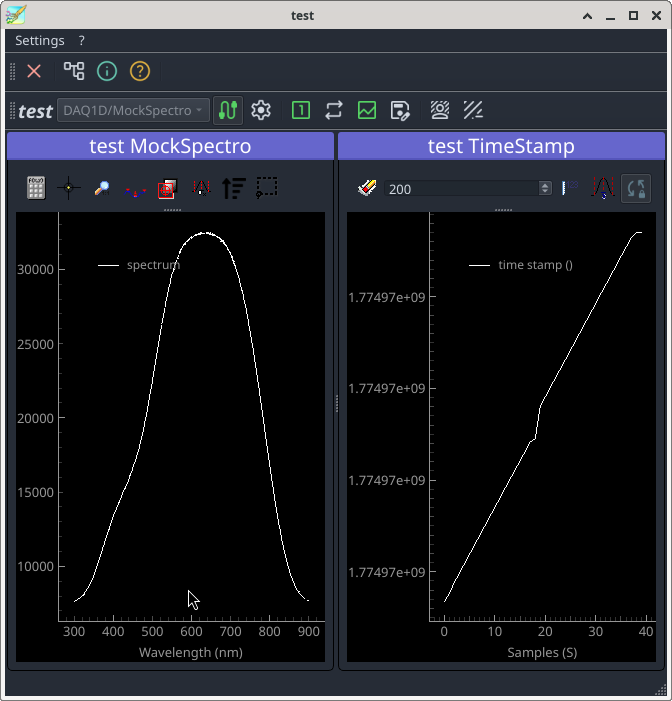
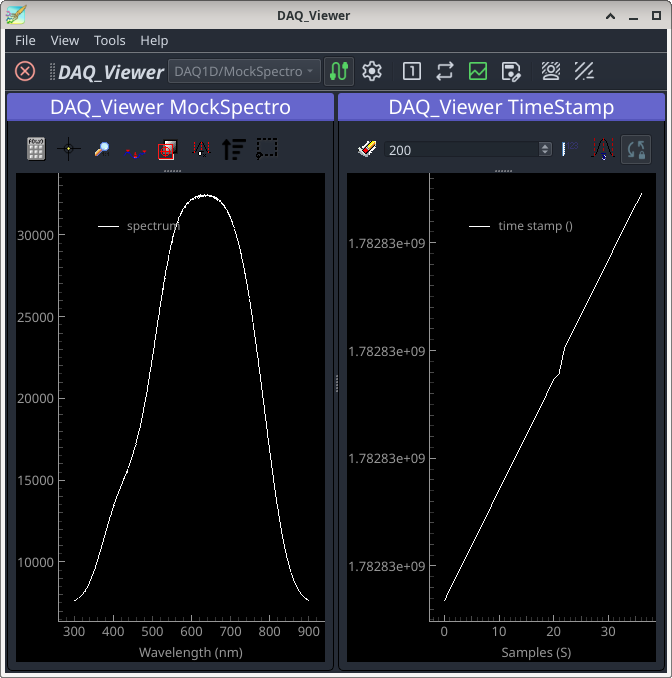
shutter-plugin

diff --git a/source/shutter.rst b/source/shutter.rst
@@ -1,7 +1,7 @@
 Shutter plugin
 ==============
 
-The shutter used in this experiment is a low-cost device based on a pulse-width modulation (PWM) driven servo for modeling which is controlled by an arduino board. An anodised blade fixed to the servo's steerer blocks the light beam when placed accordingly
+The shutter used in this experiment is a low-cost device based on a pulse-width modulation (PWM) driven servo for modeling which is controlled by an Arduino board. An anodised blade fixed to the servo's steerer blocks the light beam when placed accordingly
 
 .. image:: Servo-motor-circuit.png
 
@@ -9,7 +9,7 @@ The position is steered by the duty cycle of a pulsed signal, typically with a p
 
 .. image:: Servomotor_Timing_Diagram.svg.png
 
-The only thing which matters in the context of this tutorial is that the corresponding actuator plugin has to move the (here simulated) servo back and forth between two positions for shutter closed and shutter opened, respectively. In the controller file we implement a generic :code:`MocActuator` which is specialised as needed.
+The only thing which matters in the context of this tutorial is that the corresponding actuator plugin has to move the (here simulated) servo back and forth between two positions for shutter closed and shutter opened, respectively. In the controller file we implement a generic :code:`MockActuator` which is specialised as needed.
 
 .. code-block::
 
@@ -39,33 +39,30 @@ The only thing which matters in the context of this tutorial is that the corresp
 	def is_closed(self):
 	    return abs(self._current_value - self.closed_value) <= self.epsilon
 
-At present, we need only a single shutter. More devices will follow later on. The simulation has to know whether the sample cuvette contains the real sample or solvent only. This is taken care of by the flag :code:`with_sample`.
+At present, we need only a single shutter. More devices will follow later on. The simulation has to know whether the sample cuvette contains the real sample or solvent only. This is taken care of by the flag :code:`with_sample` which we had already introduced in the previous chapter.
 
 .. code-block::
    :emphasize-lines: 6,10-
 
     @dataclass
     class MockSpectrograph:
-
         ...
 	absorption: float = 0.3
 	shutter_names = ['dark']
 
         def __post_init__(self):
-	    self.calculate_base_data()
 	    self.with_sample = True
+	    self.calculate_base_data()
 	    self.shutter = { name: MockShutter(1200)
 	                     for name in self.shutter_names }
 
 When recording a spectrum, the state of the shutter has to be taken into account, as well as the nature of the sample. This is the reason why the shutter plugin has to be declared as a slave sharing the spectrometer's controller. In a real experiment these two plugins would operate independently of each other.
 			  
 .. code-block::
-   :emphasize-lines: 7,8,10-
+   :emphasize-lines: 5,6,8-
 
     class MockSpectrograph:
-
     ...
-
 	def grab_spectrum(self):
 	    time.sleep(max(self.integration_time * 1e-6, 0.001))
 	    return self.simulate_spectrum(self.get_shutter_value('dark') > 0,
@@ -87,6 +84,10 @@ Rename the class and pay attention to the naming convention. The preamble of the
 
 .. code-block::
 
+    ...
+    from pymodaq_plugins_tutorial_extension.hardware.controller import \
+        MockSpectrograph
+
     class DAQ_Move_MockShutter(DAQ_Move_base):
 
         is_multiaxes = True
@@ -98,7 +99,7 @@ Rename the class and pay attention to the naming convention. The preamble of the
 	params = [
 	  {'title': 'Closed position', 'name': 'closed', 'type': 'int',
 	   'min': 500, 'max': 2100, 'value': 1200 },
-	  {'title': 'Open position', 'open', 'type': 'int',
+	  {'title': 'Open position', 'name': 'open', 'type': 'int',
 	   'min': 500, 'max': 2100, 'value': 1800 },
 	] + comon_parameters_fun(is_multiaxes, _axis_names, epsilon=_epsilon)
 
@@ -110,9 +111,7 @@ The initialisation procedure is similar to the one of a detector plugin.
 .. code-block::
 
     class DAQ_Move_MockShutter(DAQ_Move_base):
-
         ...
-
         def ini_stage(self, controller=None):
 	    if self.is_master:
 		self.controller = MockSpectrograph()
@@ -130,24 +129,20 @@ We could make ourselves life easier here by just passing on values to the contro
 .. code-block::
 
     class DAQ_Move_MockShutter(DAQ_Move_base):
-
         ...
-
 	def commit_settings(self, param: Parameter):
 	    axis = self.settings['multiaxes', 'axis']
 	    if param.name() == 'closed':
-	        if self.controller.set_closed_value('axis', param.value())
+	        self.controller.set_closed_value('axis', param.value())
 	    elif param.name() == 'open':
-	        if self.controller.set_open_value('axis', param.value())
+	        self.controller.set_open_value('axis', param.value())
 
 Finally, the methods for getting and setting the actuator's value, once again and for the same reason boiler-plate code only.
 
 .. code-block::
 
     class DAQ_Move_MockShutter(DAQ_Move_base):
-
         ...
-
 	def get_actuator_value(self):
 	    axis = self.settings['multiaxes', 'axis']
 	    pos = DataActuator(data=self.controller.get_shutter_value(axis),
@@ -178,3 +173,14 @@ Finally, the methods for getting and setting the actuator's value, once again an
 
     if __name__ == '__main__':
 	main(__file__)
+
+
+When running the plugin code from the command line::
+
+  $ python daq_move_MockShutter.py
+
+an actuator window should open which looks like follows (potentially after a manual resize)
+
+.. image:: actuator.png
+
+:code:`tag shutter-plugin`

diff --git a/source/spectro-photometer.rst b/source/spectro-photometer.rst
@@ -73,7 +73,7 @@ The initialisation of these parameters is done in the controller in the present 
         if param.name() in self.parameter_names:
             setattr(self.controller, param.name(), param.value())
 
-Changed parameter values can be directly handed over to the controller. There's no need for any manipulation on our simulated device.
+Changed parameter values can directly be handed over to the controller. There's no need for any manipulation on our simulated device.
 
 The initialisation of the controller has to respect a speciality of PyMoDAQ. Any plugin can be either a master which owns a controller instance or a slave which shares the controller with another plugin with master role.
 
@@ -107,10 +107,9 @@ The initialisation of the controller has to respect a speciality of PyMoDAQ. Any
 
     def close(self):
         """Terminate the communication protocol"""
+        pass
 
-        initialized = False
-
-For sake of simplicity we assume here that the controller has a wavelength property. In case we're programming the controller ourselves we can make sure that such property is indeed present. Should the controller be provided by the device's supplier, one may either add the property by modifying the code or use here whatever means the controller provides to obtain the spectrometer's wavelength or energy axis. We may also opt to export the wavelength axis together with the recorded data. **@PyMoDAQxperts:** could this be an issue for performance when the rate of incoming data is high?
+For sake of simplicity we assume here that the controller has a property called wavelength, being a 1D numpy array with a wavelength value per pixel. In case we're programming the controller ourselves we can make sure that such property is indeed present. Should the controller be provided by the device's supplier, one may either add the property by modifying the supplied code or use here whatever means the controller provides to obtain the spectrometer's wavelength or energy axis. We may also opt to export the wavelength axis together with the recorded data. That basically depends on whether the wavelength or energy scale can be changed.
 
 Obtaining the simulated spectroscopic data is a matter of calling the corresponding method on the controller.
 That data is wrapped in :code:`DataFromPlugins` and :code:`DataToExport` so that the viewer object can determine what to do with and how to display it.
@@ -148,11 +147,14 @@ That data is wrapped in :code:`DataFromPlugins` and :code:`DataToExport` so that
 The method needs a counter part in the controller
 
 .. code-block::
+   :emphasize-lines: 4,7-
 
     class MockSpectrograph:
-
     ...
-
+        def __post_init__(self):
+            self.with_sample = True
+            self.calculate_base_data()
+    ...
 	def grab_spectrum(self):
 	    time.sleep(max(self.integration_time * 1e-6, 0.001))
 	    return self.simulate_spectrum(True, self.with_sample)
@@ -167,4 +169,6 @@ A bare plugin window should open
 
 .. image:: plugin-test.png
 
-and should display simulated data when pressing the grab button (the fourth to the right of the combobox in the second tool bar). 
+and should display simulated data when pressing the grab button (the left-right arrows in the tool bar). 
+
+:code:`tag spectro-plugin`
